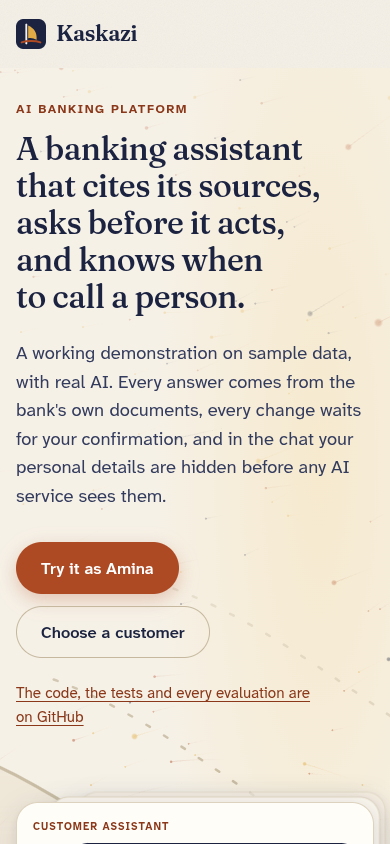
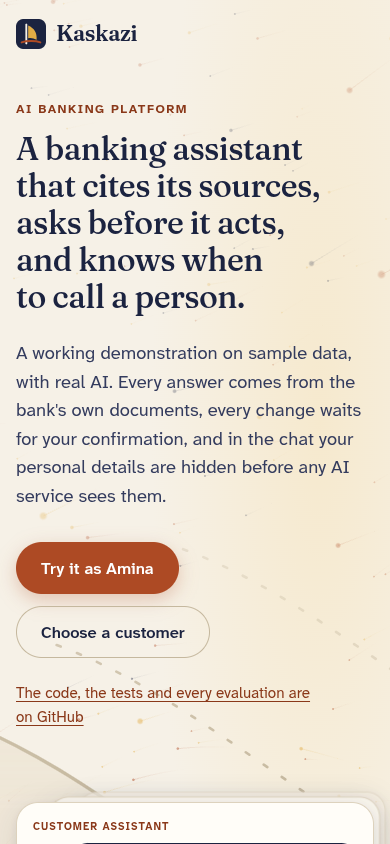
Landing: the header lies over the hero, so the wind blows behind it too
The landing's header has no ground of its own and sits over the hero, out of the flow; the
hero keeps its headline where it was (68 px of header plus the same padding). Its button
gets a light card ground for legibility over the wind. Being out of the flow, the header
also can't move the hero when its button appears after sign-in is known.

diff --git a/web/src/styles/app.css b/web/src/styles/app.css
@@ -13,6 +13,24 @@
   margin: 0 auto;
 }
 
+/* On the landing page the header lies over the hero, with no ground of its own, so the wind blows
+   behind it too. Taken out of the flow, it also can't move the hero when its button appears. */
+.site-header--over {
+  position: absolute;
+  z-index: 2;
+  top: 0;
+  left: 0;
+  right: 0;
+}
+
+.site-header--over .btn-quiet {
+  background: color-mix(in srgb, var(--card) 72%, transparent);
+}
+
+.site-header--over .btn-quiet:hover:not(:disabled) {
+  background: var(--paper-deep);
+}
+
 .wordmark {
   display: inline-flex;
   align-items: center;
@@ -129,11 +147,13 @@
 }
 
 .hero-inner {
+  /* The header's height over the hero: a 44 px button and its padding. */
+  --header: 68px;
   position: relative;
   z-index: 1;
   max-width: 1200px;
   margin: 0 auto;
-  padding: var(--space-7) var(--space-4) calc(var(--space-8) + var(--space-5));
+  padding: calc(var(--header) + var(--space-7)) var(--space-4) calc(var(--space-8) + var(--space-5));
   display: grid;
   grid-template-columns: minmax(0, 1.08fr) minmax(0, 0.92fr);
   gap: var(--space-7);
@@ -190,7 +210,7 @@
   .hero-inner {
     grid-template-columns: minmax(0, 1fr);
     gap: var(--space-6);
-    padding-top: var(--space-6);
+    padding-top: calc(var(--header) + var(--space-6));
     padding-bottom: var(--space-8);
   }
 }

diff --git a/web/src/pages/Landing.tsx b/web/src/pages/Landing.tsx
@@ -43,7 +43,7 @@ export function Landing() {
   return (
     <>
       <a className="skip-link" href="#main">Skip to the main content</a>
-      <header className="site-header">
+      <header className="site-header site-header--over">
         <Wordmark />
         {signedIn ? (
           <button type="button" className="btn btn-quiet" onClick={() => navigate("/chat")}>Back to the app</button>
